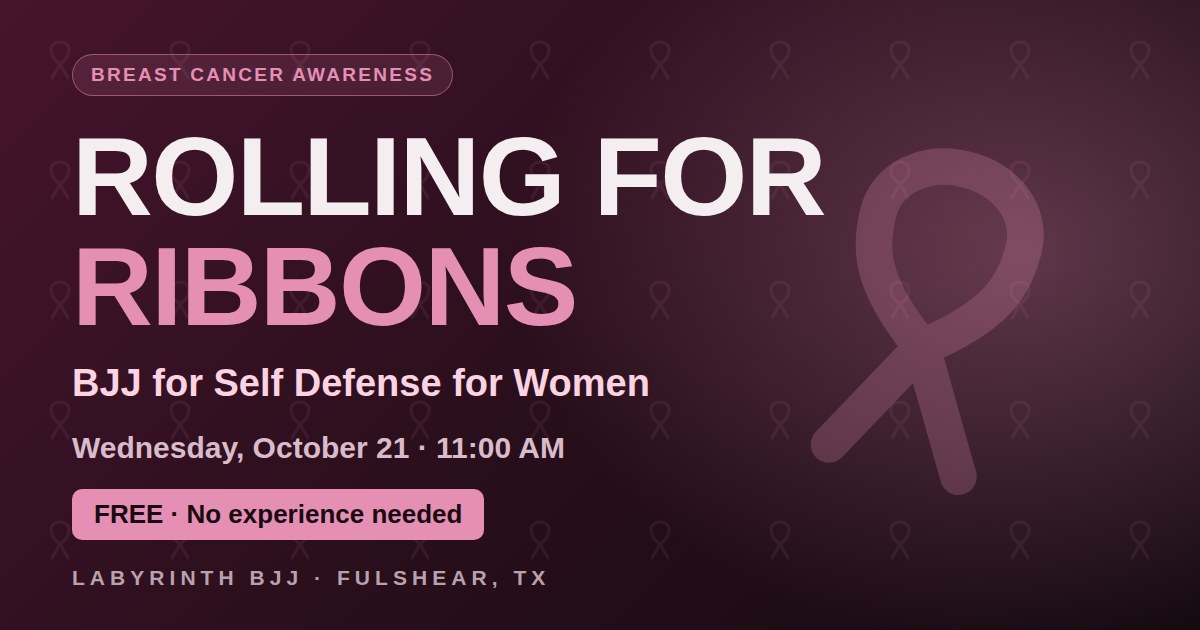
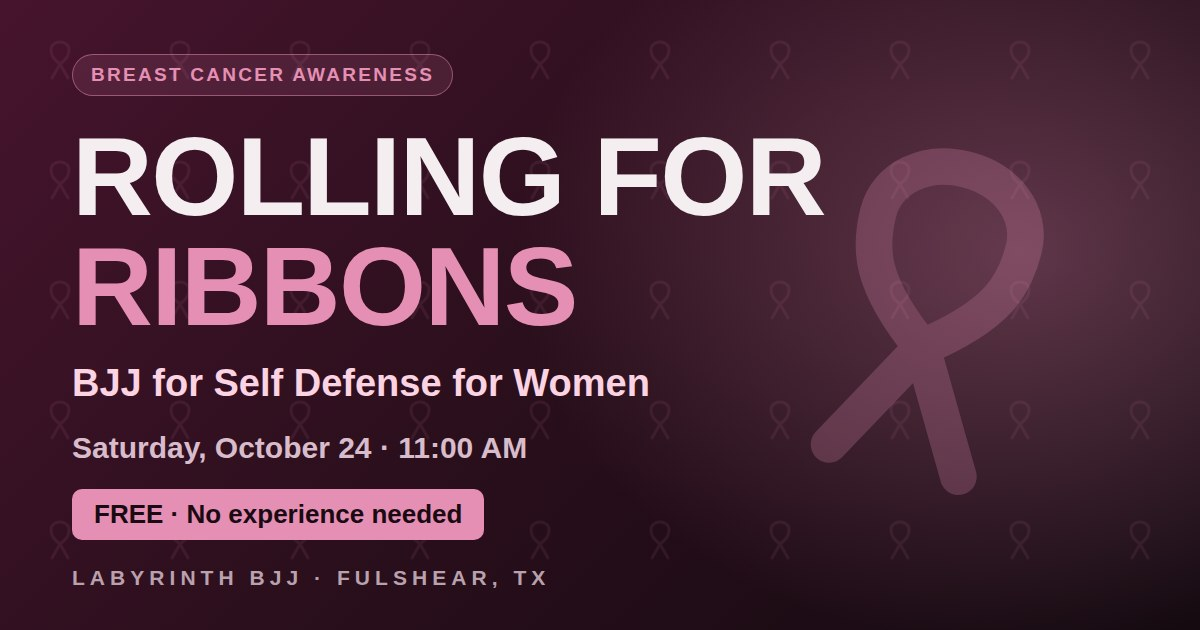
Move Rolling for Ribbons to Saturday, October 24
The date and weekday are on both pages, the homepage strip, the schema.org
Event, the share image and the tests. RSVPs now stay open until the morning
after the 24th.

Claude-Session: https://claude.ai/code/session_01T1jcBhMbJVQd3Vp58LzqMh

Changed region(s): [[0.0617, 0.6937, 0.4933, 0.754]]

diff --git a/self-defense-for-women.html b/self-defense-for-women.html
@@ -19,11 +19,11 @@
 <link rel="stylesheet" href="/programs.css?v=0acf568b">
 <link rel="stylesheet" href="/booking.css?v=6073b089">
 
-<title>Rolling for Ribbons: BJJ for Self Defense for Women | Free Seminar, Oct 21 | Labyrinth BJJ Fulshear</title>
-<meta name="description" content="Free BJJ self defense seminar for women on Wednesday, October 21 at 11:00 AM at Labyrinth BJJ in Fulshear, TX. No experience needed. RSVP now. Donations go to a family affected by breast cancer.">
+<title>Rolling for Ribbons: BJJ for Self Defense for Women | Free Seminar, Oct 24 | Labyrinth BJJ Fulshear</title>
+<meta name="description" content="Free BJJ self defense seminar for women on Saturday, October 24 at 11:00 AM at Labyrinth BJJ in Fulshear, TX. No experience needed. RSVP now. Donations go to a family affected by breast cancer.">
 <link rel="canonical" href="https://labyrinth.vision/self-defense-for-women">
-<meta property="og:title" content="Rolling for Ribbons: Free Self Defense Seminar for Women, Wednesday, October 21">
-<meta property="og:description" content="Free BJJ self defense seminar for women on Wednesday, October 21 at 11:00 AM at Labyrinth BJJ in Fulshear, TX. No experience needed. RSVP now. Donations go to a family affected by breast cancer.">
+<meta property="og:title" content="Rolling for Ribbons: Free Self Defense Seminar for Women, Saturday, October 24">
+<meta property="og:description" content="Free BJJ self defense seminar for women on Saturday, October 24 at 11:00 AM at Labyrinth BJJ in Fulshear, TX. No experience needed. RSVP now. Donations go to a family affected by breast cancer.">
 <meta property="og:type" content="website">
 <meta property="og:url" content="https://labyrinth.vision/self-defense-for-women">
 <meta property="og:site_name" content="Labyrinth BJJ">
@@ -54,9 +54,9 @@
   "@context": "https://schema.org",
   "@type": "Event",
   "name": "Rolling for Ribbons: BJJ for Self Defense for Women",
-  "description": "Free BJJ self defense seminar for women on Wednesday, October 21 at 11:00 AM at Labyrinth BJJ in Fulshear, TX. No experience needed. RSVP now. Donations go to a family affected by breast cancer.",
+  "description": "Free BJJ self defense seminar for women on Saturday, October 24 at 11:00 AM at Labyrinth BJJ in Fulshear, TX. No experience needed. RSVP now. Donations go to a family affected by breast cancer.",
   "url": "https://labyrinth.vision/self-defense-for-women",
-  "startDate": "2026-10-21T11:00:00-05:00",
+  "startDate": "2026-10-24T11:00:00-05:00",
   "eventStatus": "https://schema.org/EventScheduled",
   "eventAttendanceMode": "https://schema.org/OfflineEventAttendanceMode",
   "isAccessibleForFree": true,
@@ -154,7 +154,7 @@
       <a href="https://donate.stripe.com/14AdRa0tL1Ea1Br3bJgjC0a" class="btn btn--pink" target="_blank" rel="noopener noreferrer">Donate</a>
     </div>
     <div class="prog-facts">
-      <div class="prog-fact"><div class="prog-fact__label">Date</div><div class="prog-fact__value">Wed, Oct 21</div></div>
+      <div class="prog-fact"><div class="prog-fact__label">Date</div><div class="prog-fact__value">Sat, Oct 24</div></div>
       <div class="prog-fact"><div class="prog-fact__label">Time (Central)</div><div class="prog-fact__value">11:00 AM</div></div>
       <div class="prog-fact"><div class="prog-fact__label">Where</div><div class="prog-fact__value">Labyrinth BJJ, Fulshear, TX</div></div>
       <div class="prog-fact"><div class="prog-fact__label">Cost</div><div class="prog-fact__value"><em>Free</em></div></div>
@@ -173,7 +173,7 @@
     <p class="rsvp__thanks" id="rsvp-donated" hidden>Thank you for your donation. It goes directly to a family affected by breast cancer.</p>
 
     <form class="booking-form rsvp__form" id="rsvp-form" novalidate
-          data-event="self-defense-women-2026-10-21" data-endpoint="https://jctufxvmuvobaggxcwfn.supabase.co/functions/v1/event-rsvp" data-closes="2026-10-22T10:00:00Z">
+          data-event="self-defense-women-2026-10-21" data-endpoint="https://jctufxvmuvobaggxcwfn.supabase.co/functions/v1/event-rsvp" data-closes="2026-10-25T10:00:00Z">
       <div class="booking-form__group">
         <label class="booking-form__label" for="rsvp-name">Full name</label>
         <input class="booking-form__input" id="rsvp-name" name="name" type="text" autocomplete="name" required minlength="2" maxlength="100" aria-describedby="rsvp-name-err">
@@ -227,7 +227,7 @@
       <svg class="ribbon" width="40" height="40" viewBox="0 0 24 24" fill="none" stroke="currentColor" stroke-width="2.2" stroke-linecap="round" stroke-linejoin="round" aria-hidden="true" focusable="false"><path d="M12 14C8 11 7.5 9 7.5 6.8 7.5 4.6 9.5 3 12 3s4.5 1.6 4.5 3.8C16.5 9 16 11 12 14zM12 14 8 21M12 14l4 7" fill="currentColor" fill-opacity=".18"/></svg>
       <p class="section-label rsvp-label">You are on the list</p>
       <h2 class="section-title section-title--lg" id="rsvp-success-title">SEE YOU THERE</h2>
-      <p><span id="rsvp-success-name"></span>, we have you down for <span id="rsvp-success-party"></span> on <strong>Wednesday, October 21 at 11:00 AM</strong> at Labyrinth BJJ in Fulshear.</p>
+      <p><span id="rsvp-success-name"></span>, we have you down for <span id="rsvp-success-party"></span> on <strong>Saturday, October 24 at 11:00 AM</strong> at Labyrinth BJJ in Fulshear.</p>
       <p>A confirmation is on its way to <strong id="rsvp-success-email"></strong>. If you do not see it in a few minutes, check your spam folder. To change your RSVP, just submit this form again.</p>
       <div class="prog-hero__cta">
         <a href="https://donate.stripe.com/14AdRa0tL1Ea1Br3bJgjC0a" class="btn btn--pink" target="_blank" rel="noopener noreferrer">Donate</a>

diff --git a/pink-october.html b/pink-october.html
@@ -198,13 +198,13 @@
     </div>
     <div class="prog-prose">
       <p>October is Breast Cancer Awareness Month, and we want the women in our community to have a reason to show up for themselves this month: to move, to get stronger, and to meet people who will cheer for them.</p>
-      <p>We are also hosting a free self defense seminar on <strong>Wednesday, October 21 at 11:00 AM</strong>. Donations and merch sales at the event go directly to a family affected by breast cancer.</p>
+      <p>We are also hosting a free self defense seminar on <strong>Saturday, October 24 at 11:00 AM</strong>. Donations and merch sales at the event go directly to a family affected by breast cancer.</p>
     </div>
     <a href="/self-defense-for-women" class="pink-link-card">
       <span class="pink-link-card__ribbon"><svg class="ribbon" width="40" height="40" viewBox="0 0 24 24" fill="none" stroke="currentColor" stroke-width="2.2" stroke-linecap="round" stroke-linejoin="round" aria-hidden="true" focusable="false"><path d="M12 14C8 11 7.5 9 7.5 6.8 7.5 4.6 9.5 3 12 3s4.5 1.6 4.5 3.8C16.5 9 16 11 12 14zM12 14 8 21M12 14l4 7" fill="currentColor" fill-opacity=".18"/></svg></span>
       <span class="pink-link-card__body">
         <strong>Rolling for Ribbons: BJJ for Self Defense for Women</strong>
-        <span>Wed, Oct 21 at 11:00 AM &middot; Free, no experience needed &middot; RSVP and donate</span>
+        <span>Sat, Oct 24 at 11:00 AM &middot; Free, no experience needed &middot; RSVP and donate</span>
       </span>
       <span class="pink-link-card__cta">RSVP &rarr;</span>
     </a>

diff --git a/index.html b/index.html
@@ -622,9 +622,9 @@ button {
       <span class="event-strip__text"><strong>Pink October: moms train free, women get 50% off</strong><span>All of October &middot; Open to every woman</span></span>
       <span class="event-strip__cta">See offers</span>
     </a>
-    <a class="event-strip__link" href="/self-defense-for-women" data-closes="2026-10-22T10:00:00Z">
+    <a class="event-strip__link" href="/self-defense-for-women" data-closes="2026-10-25T10:00:00Z">
       <span class="event-strip__icon"><svg class="ribbon" width="26" height="26" viewBox="0 0 24 24" fill="none" stroke="currentColor" stroke-width="2.2" stroke-linecap="round" stroke-linejoin="round" aria-hidden="true" focusable="false"><path d="M12 14C8 11 7.5 9 7.5 6.8 7.5 4.6 9.5 3 12 3s4.5 1.6 4.5 3.8C16.5 9 16 11 12 14zM12 14 8 21M12 14l4 7" fill="currentColor" fill-opacity=".18"/></svg></span>
-      <span class="event-strip__text"><strong>Free event: Rolling for Ribbons</strong><span>Wed, Oct 21 &middot; 11:00 AM &middot; Breast cancer awareness</span></span>
+      <span class="event-strip__text"><strong>Free event: Rolling for Ribbons</strong><span>Sat, Oct 24 &middot; 11:00 AM &middot; Breast cancer awareness</span></span>
       <span class="event-strip__cta">RSVP</span>
     </a>
   </div>

diff --git a/scripts/og-self-defense.html b/scripts/og-self-defense.html
@@ -24,7 +24,7 @@
     <div class="badge">Breast cancer awareness</div>
     <h1>Rolling for <span>Ribbons</span></h1>
     <div class="sub">BJJ for Self Defense for Women</div>
-    <div class="when">Wednesday, October 21 &middot; 11:00 AM</div>
+    <div class="when">Saturday, October 24 &middot; 11:00 AM</div>
     <div class="free">FREE &middot; No experience needed</div>
   </div>
   <div class="brand">LABYRINTH BJJ &middot; FULSHEAR, TX</div>

diff --git a/scripts/build_pages.py b/scripts/build_pages.py
@@ -767,6 +767,8 @@ def render_support():
 # on a phone before somebody has finished reading the sentence that sent them.
 
 EVENT = {
+    # The slug is the key the RSVP rows are saved under, so it keeps the date the
+    # event was first planned for (Oct 21) even though it now runs on Oct 24.
     "slug": "self-defense-women-2026-10-21",
     # "Rolling for Ribbons" is the event; the descriptive line stays under it on
     # the page and in search results, so a stranger still knows what it is.
@@ -774,11 +776,11 @@ EVENT = {
     "subtitle": "BJJ for Self Defense for Women",
     "name": "Rolling for Ribbons: BJJ for Self Defense for Women",
     "path": "/self-defense-for-women",
-    # 11:00 AM on Oct 21 is CDT (UTC-5): Texas moves its clocks on Nov 1.
-    "start": "2026-10-21T11:00:00-05:00",
+    # 11:00 AM on Oct 24 is CDT (UTC-5): Texas moves its clocks on Nov 1.
+    "start": "2026-10-24T11:00:00-05:00",
     # After this the form says the event has passed (and the server refuses).
     # Matches closesAt in event-emails.ts: 5:00 AM Central the next morning.
-    "closes_utc": "2026-10-22T10:00:00Z",
+    "closes_utc": "2026-10-25T10:00:00Z",
     "donate_url": "https://donate.stripe.com/14AdRa0tL1Ea1Br3bJgjC0a",
     "endpoint": "https://jctufxvmuvobaggxcwfn.supabase.co/functions/v1/event-rsvp",
     "maps_url": "https://maps.google.com/?cid=7150744267965161030",
@@ -786,7 +788,7 @@ EVENT = {
 
 
 def _event_when():
-    """('Wednesday, October 21', 'Wed, Oct 21', '11:00 AM'), worked out from the
+    """('Saturday, October 24', 'Sat, Oct 24', '11:00 AM'), worked out from the
     start time rather than typed, so a weekday cannot be wrong."""
     import datetime
     d = datetime.datetime.fromisoformat(EVENT["start"])
